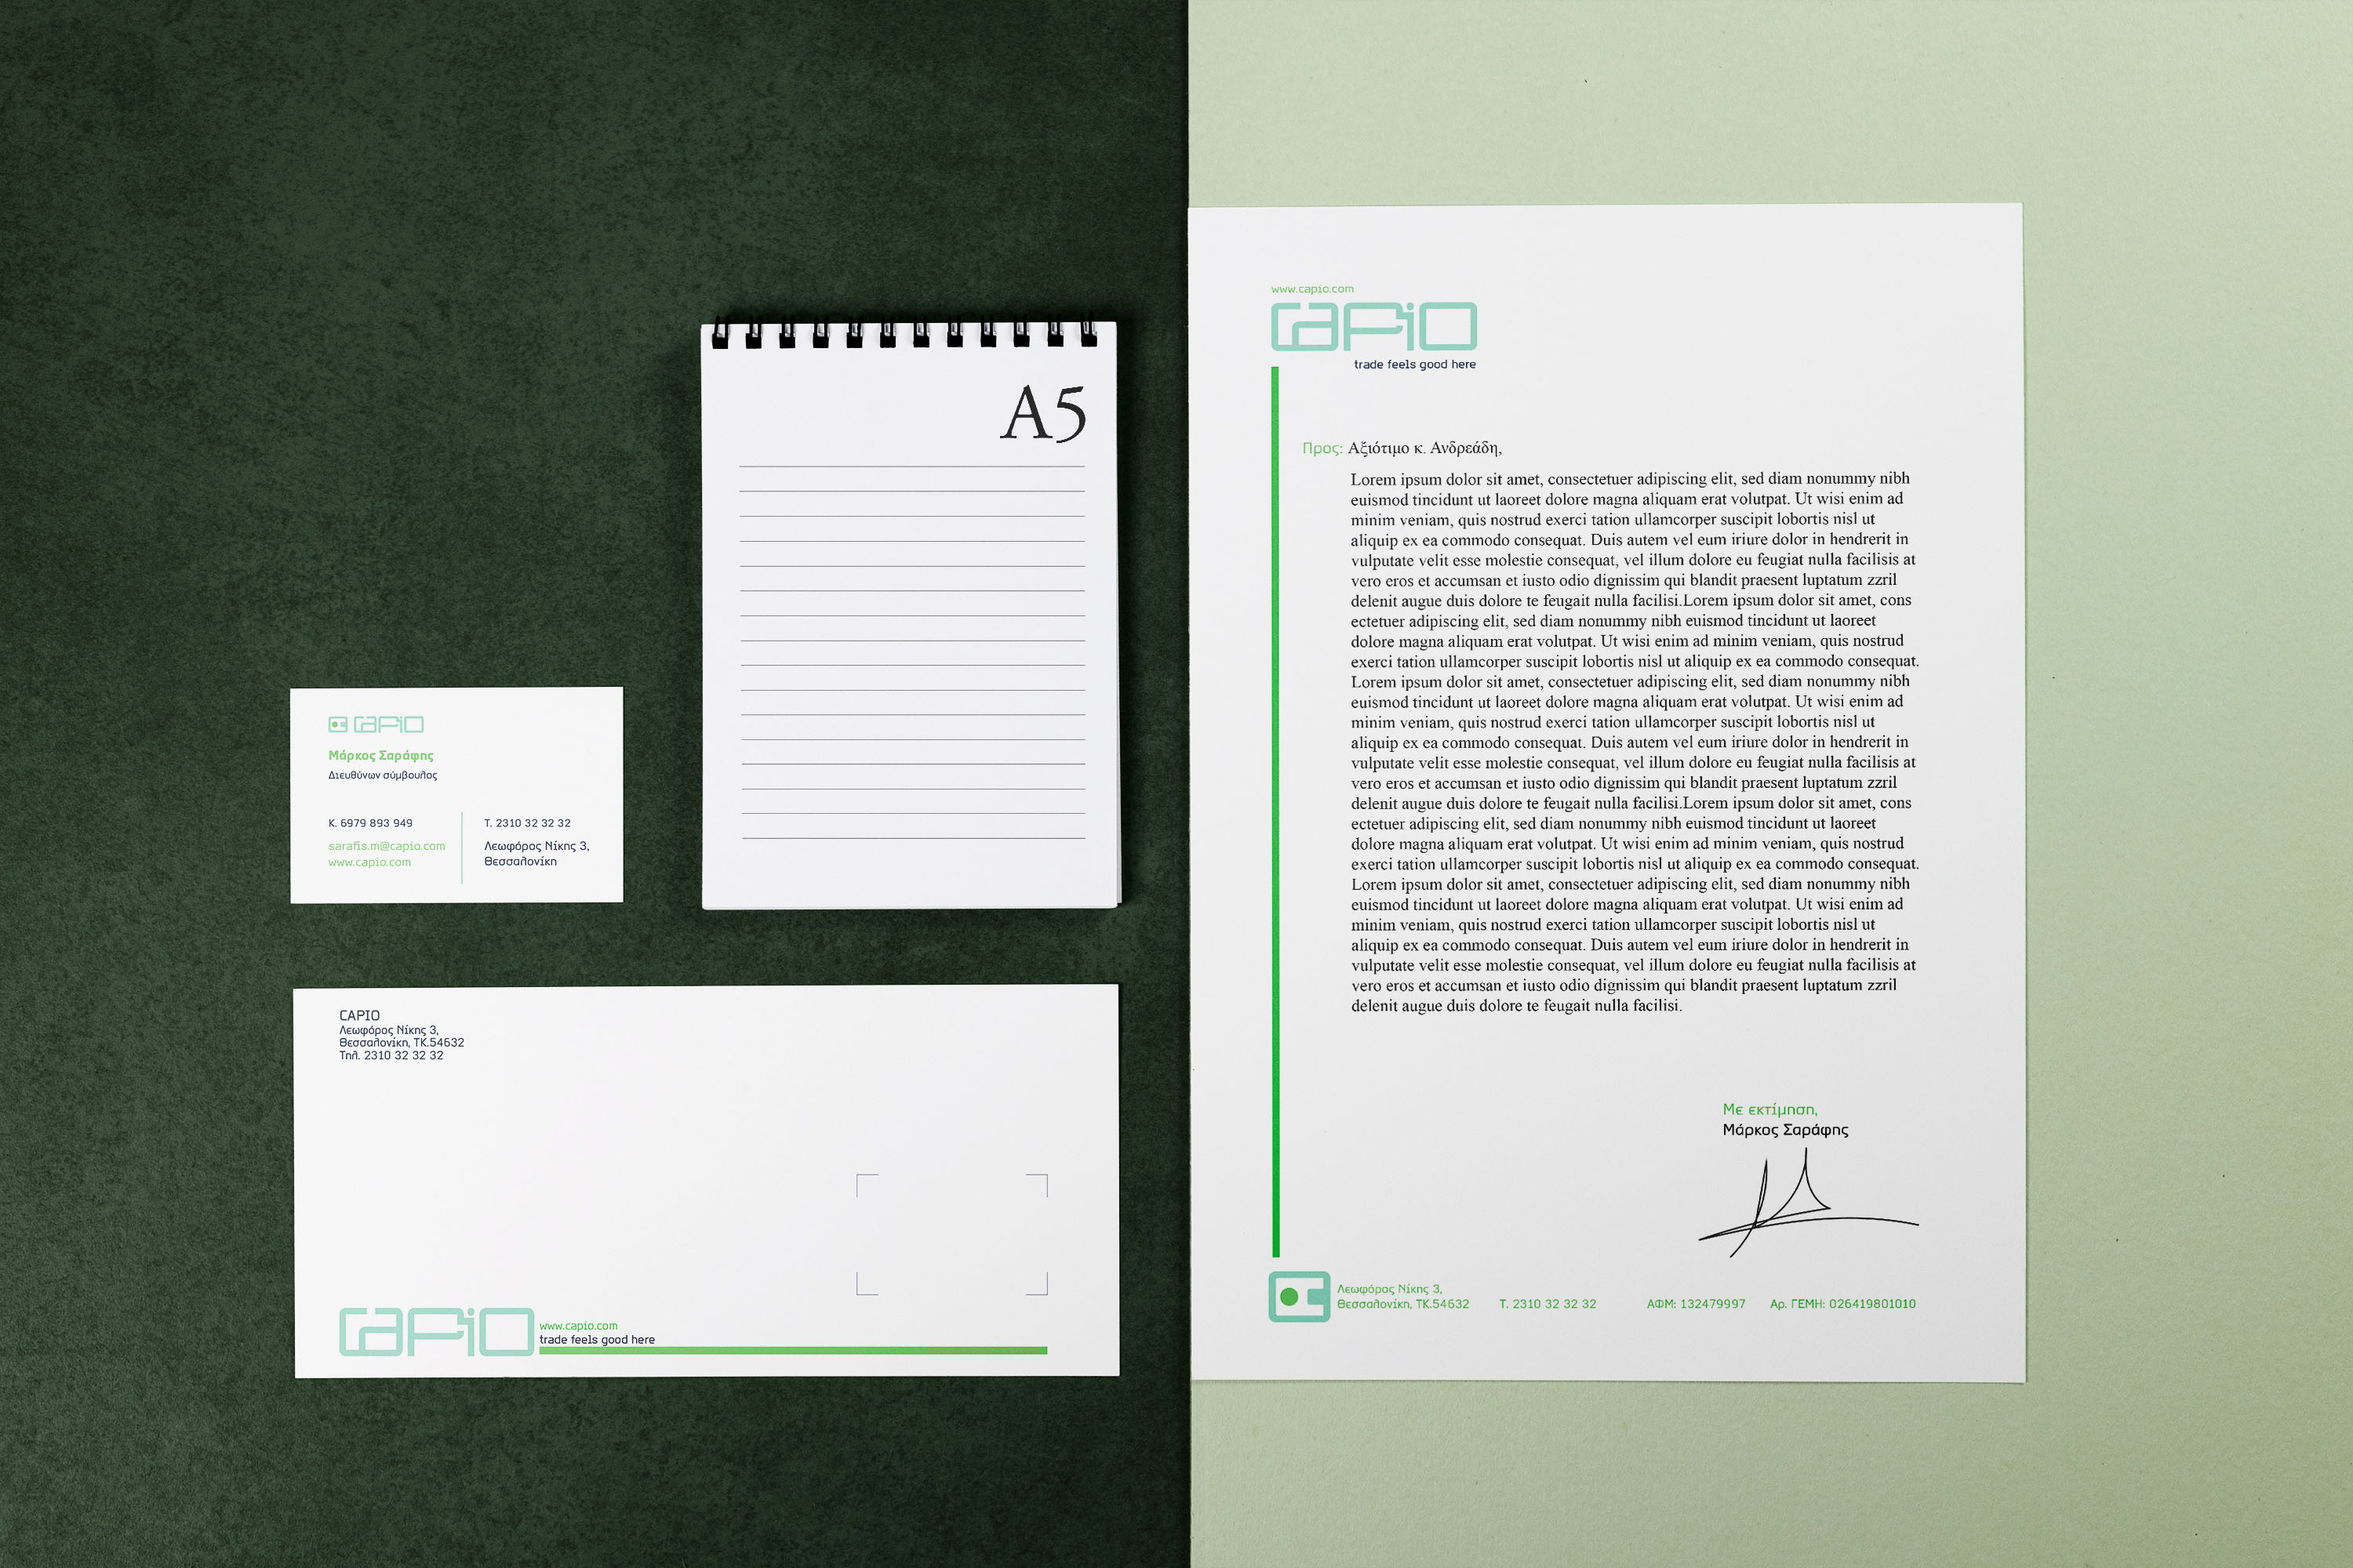
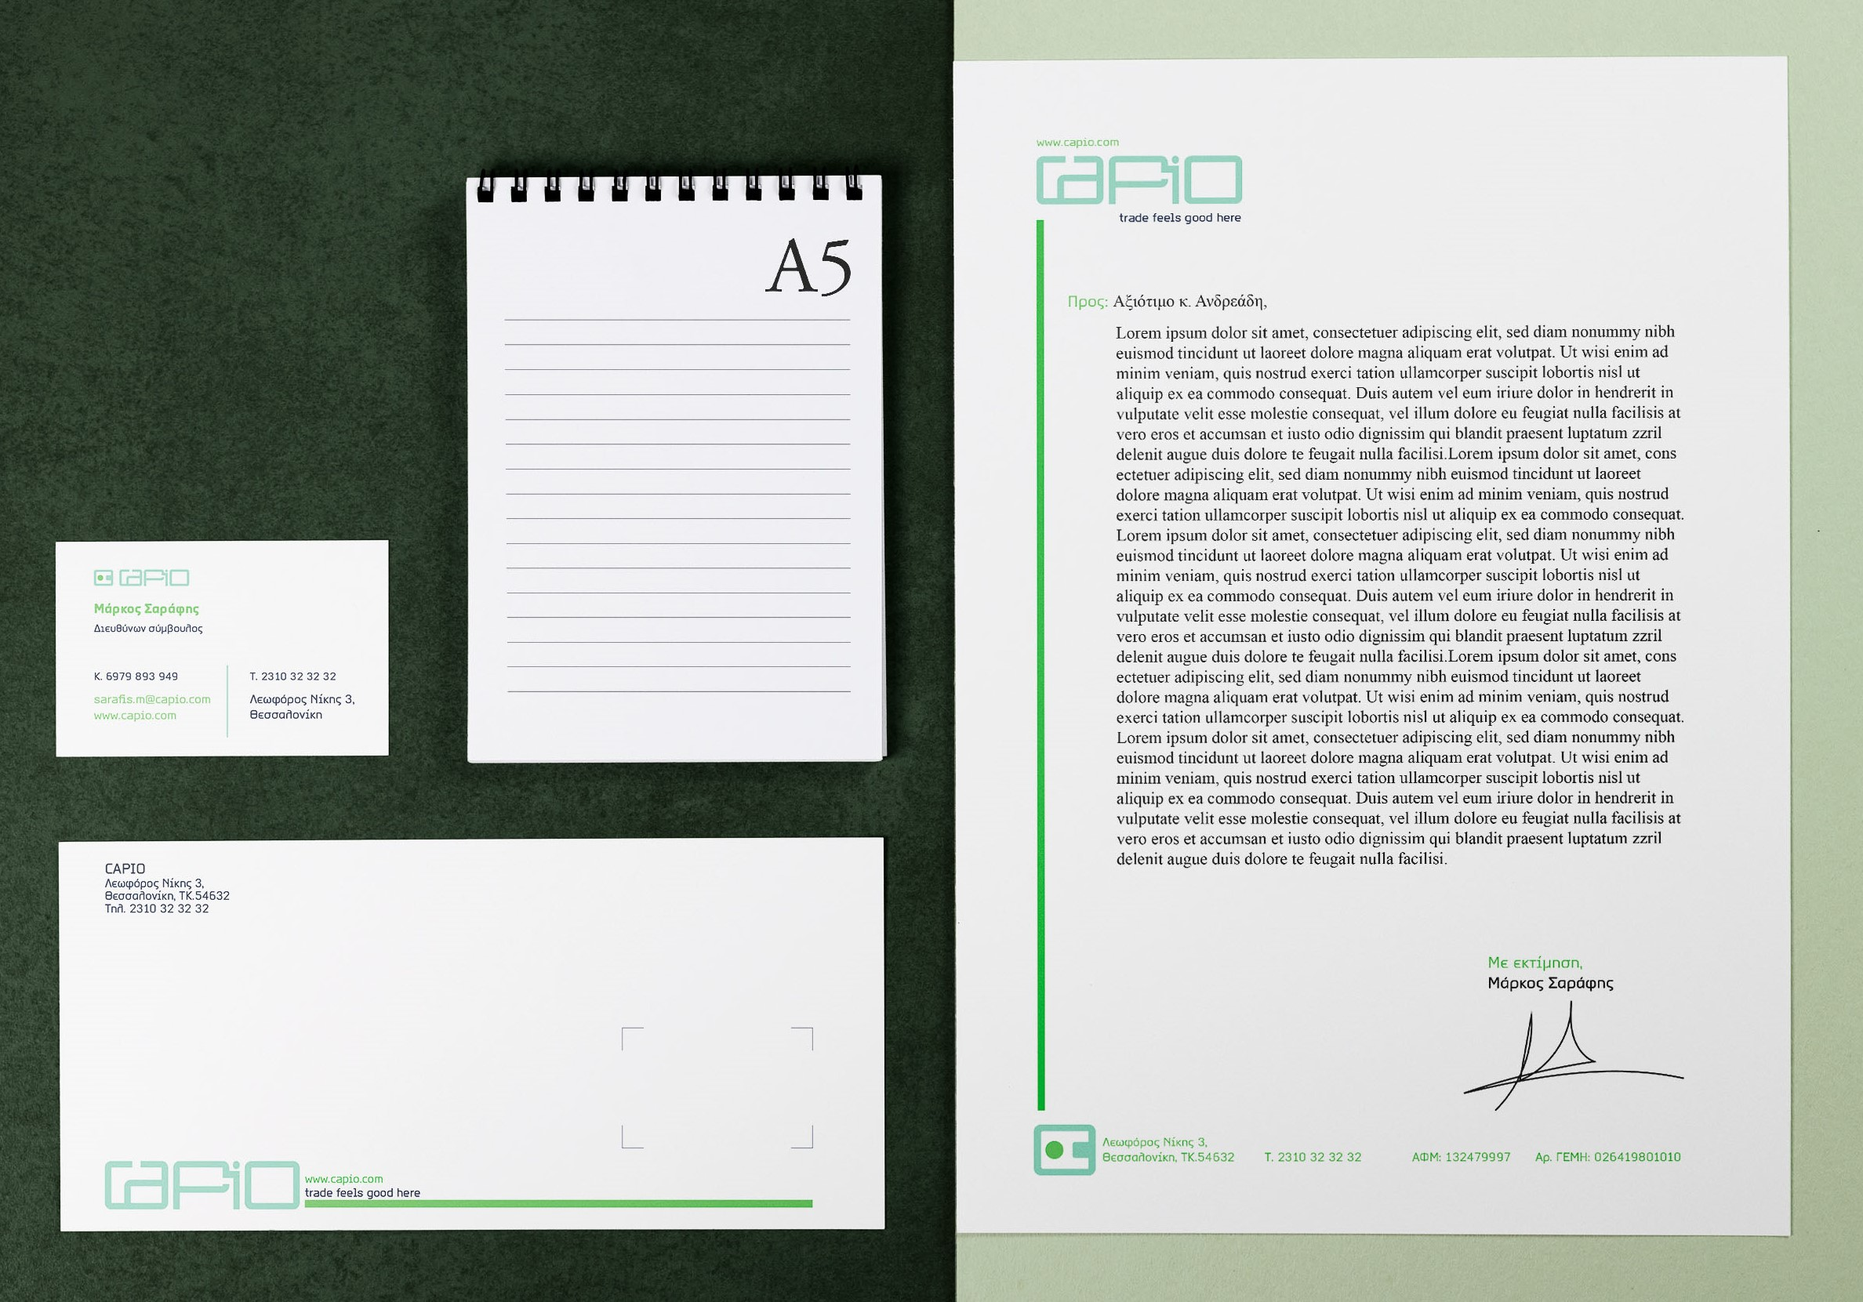
update capio styles and photo

diff --git a/src/pages/Capio/Capio.jsx b/src/pages/Capio/Capio.jsx
@@ -23,27 +23,20 @@ const Capio = () => {
           <img src={CapioIcon} alt="capio icon" className="capio-icon" />
           <img src={CapioLogo} alt="capio logo" className="capio-logo" />
         </div>
+
         <div className="capio-description">
-          <p>
-            Η εταιρία Capio είναι ένα ανταλλακτήριο κρυπτονομισμάτων (crypto). Η
-            έμπνευση του ονόματος προέρχεται από το λατινικό ρήμα capio που
-            σημαίνει λαμβάνω (παίρνω). Η εταιρία, αν και δραστηριοποιείται στον
-            ψηφιακό κόσμο, ενδιαφέρεται για την κοινωνία και το περιβάλλον.{" "}
-          </p>{" "}
-          <p>
-            Για αυτόν τον λόγο ακολουθήθηκε μια σχεδιαστική προσέγγιση, η οποία
-            συνδυάζει το τεχνολογικό με το ανθρώπινο στοιχείο. Επιπλέον η
-            χρωματική παλέτα που επιλέχθηκε δίνει έμφαση στον οικολογικό
-            χαρακτήρα της εταιρίας.
-          </p>
+          Η εταιρία Capio είναι ένα ανταλλακτήριο κρυπτονομισμάτων (crypto). Η
+          έμπνευση του ονόματος προέρχεται από το λατινικό ρήμα capio που
+          σημαίνει λαμβάνω (παίρνω). Η εταιρία, αν και δραστηριοποιείται στον
+          ψηφιακό κόσμο, ενδιαφέρεται για την κοινωνία και το περιβάλλον.
         </div>
-        <div className="capio-stationary">
-          <img
-            src={CapioStationary}
-            alt="capio stationary"
-            className="capio-stationary-img"
-          />
+        <div className="capio-description">
+          Για αυτόν τον λόγο ακολουθήθηκε μια σχεδιαστική προσέγγιση, η οποία
+          συνδυάζει το τεχνολογικό με το ανθρώπινο στοιχείο. Επιπλέον η
+          χρωματική παλέτα που επιλέχθηκε δίνει έμφαση στον οικολογικό χαρακτήρα
+          της εταιρίας.
         </div>
+
         <div className="cards-display">
           <div className="flip-it">Flip it &#8595;</div>
           <Flippy flipOnClick={true} flipDirection="vertical">
@@ -96,6 +89,13 @@ const Capio = () => {
               />
             </BackSide>
           </Flippy>
+        </div>
+        <div className="capio-stationary">
+          <img
+            src={CapioStationary}
+            alt="capio stationary"
+            className="capio-stationary-img"
+          />
         </div>
       </div>
     </div>

diff --git a/src/pages/Capio/Capio.css b/src/pages/Capio/Capio.css
@@ -1,15 +1,19 @@
 .capio-container {
-  padding-top: 150px;
-  margin-left: 1%;
+  width: 1900px;
+  padding-top: 200px;
+  margin-left: auto;
+  margin-right: auto;
   display: grid;
-  grid-template-columns: repeat(3, 1fr);
-  grid-template-rows: repeat(3, 1fr);
-  grid-gap: 1%;
+  grid-template-columns: 450px repeat(2, 1fr);
+  grid-template-rows: 0.5fr 4fr;
+  grid-gap: 2%;
 }
 
-.capio-identity-elements {
+/*.capio-identity-elements {
   padding-right: 60px;
-}
+  text-align: center;
+  margin-bottom: 2%;
+}*/
 
 .capio-icon {
   width: 85px;
@@ -22,22 +26,20 @@
 }
 
 .capio-description {
-  grid-row: 2/4;
   color: #f2ebee;
   font-size: 18px;
-  margin-top: -250px;
+  max-width: 60ch;
 }
 
 .capio-stationary {
-  grid-row: 1 / span 3;
+  grid-column: 2/4;
 }
 
 .capio-stationary-img {
-  width: 1500px;
+  width: 1400px;
 }
 
 .cards-display {
-  grid-row: 1/4;
   display: flex;
   flex-direction: column;
   align-items: center;
@@ -54,4 +56,38 @@
 
 .capio-card:hover {
   cursor: pointer;
+}
+
+@media only screen and (max-width: 1537px) {
+  .capio-container {
+    width: 1400px;
+  }
+
+  .capio-stationary-img {
+    width: 900px;
+  }
+}
+@media only screen and (max-width: 1366px) {
+  .capio-container {
+    width: 1200px;
+    grid-gap: 1%;
+  }
+  .capio-icon {
+    width: 65px;
+    height: auto;
+    margin-right: 24px;
+  }
+  .capio-logo {
+    width: 250px;
+    height: auto;
+  }
+  .capio-description {
+    font-size: 14px;
+  }
+  .capio-card {
+    width: 150px;
+  }
+  .capio-stationary-img {
+    width: 800px;
+  }
 }
